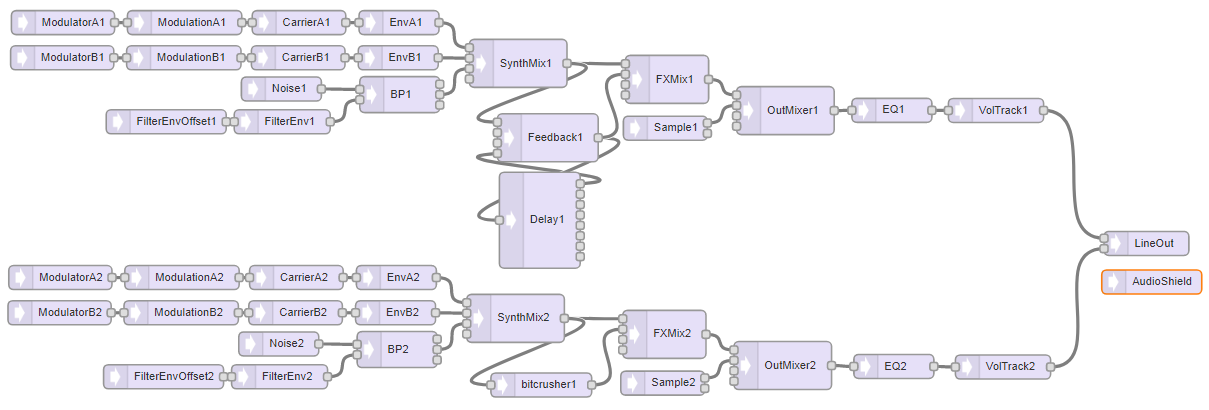
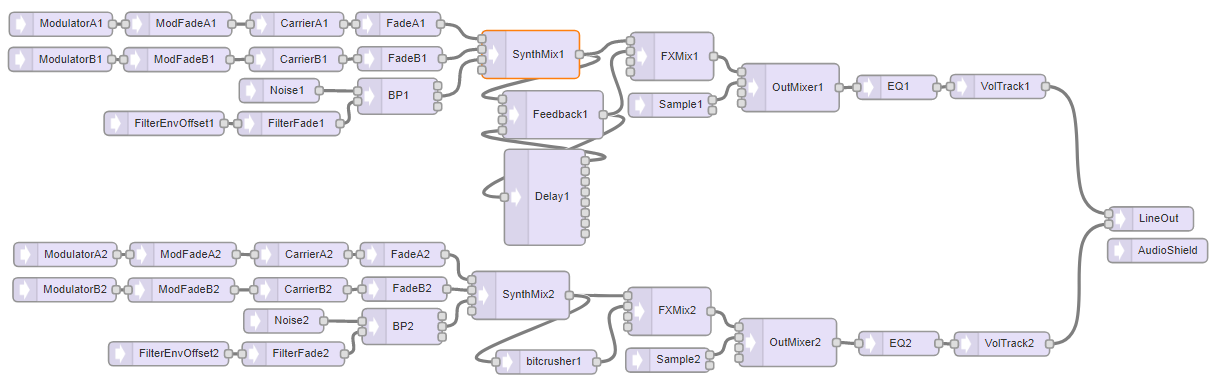
simplified synth diagram
Replaced envelopes by fades since I just want volumes and modulations to
ease in/out

Changed region(s): [[0.0, 0.0, 1.0, 0.9897]]

diff --git a/A_Plates/SynthDiagram.cpp b/A_Plates/SynthDiagram.cpp
@@ -5,32 +5,32 @@
 #include <SerialFlash.h>
 
 // GUItool: begin automatically generated code
+AudioSynthWaveformSine   ModulatorB1; //xy=85.111083984375,131.77777099609375
+AudioSynthWaveformSine   ModulatorA1; //xy=86.111083984375,87.77777099609375
 AudioSynthWaveformSine   ModulatorB2; //xy=90.71429443359375,419.71429443359375
 AudioSynthWaveformSine   ModulatorA2; //xy=91.71429443359375,375.71429443359375
-AudioSynthWaveformSine   ModulatorB1; //xy=94,101
-AudioSynthWaveformSine   ModulatorA1;          //xy=95,57
+AudioSynthWaveformDc     FilterEnvOffset1; //xy=215.111083984375,211.77777099609375
 AudioSynthWaveformDc     FilterEnvOffset2; //xy=220.71429443359375,499.71429443359375
-AudioSynthWaveformDc     FilterEnvOffset1;            //xy=224,181
-AudioAmplifier           ModulationB2; //xy=242.71429443359375,419.71429443359375
-AudioAmplifier           ModulationA2; //xy=243.71429443359375,375.71429443359375
-AudioAmplifier           ModulationB1; //xy=246,101
-AudioAmplifier           ModulationA1;           //xy=247,57
+AudioEffectFade          ModFadeB1; //xy=231.0634536743164,132.06344413757324
+AudioEffectFade          ModFadeA1; //xy=233.2856674194336,87.6190414428711
+AudioEffectFade          ModFadeB2; //xy=236.66666412353516,419.99996757507324
+AudioEffectFade          ModFadeA2;          //xy=238.88887786865234,375.5555648803711
+AudioSynthNoiseWhite     Noise1; //xy=359.111083984375,170.77777099609375
 AudioSynthNoiseWhite     Noise2; //xy=364.71429443359375,458.71429443359375
-AudioEffectEnvelope      FilterEnv2; //xy=365.71429443359375,499.71429443359375
-AudioSynthNoiseWhite     Noise1;         //xy=368,140
-AudioEffectEnvelope      FilterEnv1; //xy=369,181
+AudioEffectFade          FilterFade1; //xy=371.06345558166504,212.06343841552734
+AudioEffectFade          FilterFade2; //xy=376.6666660308838,499.99996185302734
+AudioSynthWaveformSineModulated CarrierB1; //xy=380.111083984375,131.77777099609375
+AudioSynthWaveformSineModulated CarrierA1; //xy=381.111083984375,87.77777099609375
 AudioSynthWaveformSineModulated CarrierB2; //xy=385.71429443359375,419.71429443359375
 AudioSynthWaveformSineModulated CarrierA2; //xy=386.71429443359375,375.71429443359375
-AudioSynthWaveformSineModulated CarrierB1; //xy=389,101
-AudioSynthWaveformSineModulated CarrierA1;       //xy=390,57
-AudioEffectEnvelope      EnvB2; //xy=510.71429443359375,419.71429443359375
-AudioEffectEnvelope      EnvA2; //xy=511.71429443359375,375.71429443359375
-AudioEffectEnvelope      EnvB1; //xy=514,101
+AudioFilterStateVariable BP1; //xy=507.111083984375,177.77777099609375
+AudioEffectFade          FadeA1; //xy=507.73011779785156,87.61899375915527
+AudioEffectFade          FadeB1; //xy=509.95234298706055,130.95236587524414
 AudioFilterStateVariable BP2; //xy=512.7142944335938,465.71429443359375
-AudioEffectEnvelope      EnvA1;      //xy=515,57
-AudioFilterStateVariable BP1;        //xy=516,147
+AudioEffectFade          FadeA2; //xy=513.3333282470703,375.5555171966553
+AudioEffectFade          FadeB2; //xy=515.5555534362793,418.88888931274414
 AudioMixer4              SynthMix2; //xy=660.7142944335938,426.71429443359375
-AudioMixer4              SynthMix1;         //xy=664,108
+AudioMixer4              SynthMix1; //xy=673.333324432373,125.55555725097656
 AudioEffectDelay         Delay1;         //xy=691,304
 AudioEffectBitcrusher    bitcrusher1;    //xy=692.8571319580078,510.0000686645508
 AudioMixer4              Feedback1;         //xy=701,201
@@ -42,37 +42,37 @@ AudioMixer4              OutMixer2; //xy=994.7142944335938,485.71429443359375
 AudioMixer4              OutMixer1; //xy=998,167
 AudioFilterBiquad        EQ1;        //xy=1131.1110763549805,166.66667556762695
 AudioFilterBiquad        EQ2; //xy=1133.5395812988281,486.80954027175903
-AudioAmplifier           VolTrack1;           //xy=1261.2500190734863,166.78572273254395
-AudioAmplifier           VolTrack2; //xy=1270.0000190734863,487.50000762939453
-AudioOutputI2S           LineOut;           //xy=1449.3016319274902,333.04759407043457
-AudioConnection          patchCord1(ModulatorB2, ModulationB2);
-AudioConnection          patchCord2(ModulatorA2, ModulationA2);
-AudioConnection          patchCord3(ModulatorB1, ModulationB1);
-AudioConnection          patchCord4(ModulatorA1, ModulationA1);
-AudioConnection          patchCord5(FilterEnvOffset2, FilterEnv2);
-AudioConnection          patchCord6(FilterEnvOffset1, FilterEnv1);
-AudioConnection          patchCord7(ModulationB2, CarrierB2);
-AudioConnection          patchCord8(ModulationA2, CarrierA2);
-AudioConnection          patchCord9(ModulationB1, CarrierB1);
-AudioConnection          patchCord10(ModulationA1, CarrierA1);
-AudioConnection          patchCord11(Noise2, 0, BP2, 0);
-AudioConnection          patchCord12(FilterEnv2, 0, BP2, 1);
-AudioConnection          patchCord13(Noise1, 0, BP1, 0);
-AudioConnection          patchCord14(FilterEnv1, 0, BP1, 1);
-AudioConnection          patchCord15(CarrierB2, EnvB2);
-AudioConnection          patchCord16(CarrierA2, EnvA2);
-AudioConnection          patchCord17(CarrierB1, EnvB1);
-AudioConnection          patchCord18(CarrierA1, EnvA1);
-AudioConnection          patchCord19(EnvB2, 0, SynthMix2, 1);
-AudioConnection          patchCord20(EnvA2, 0, SynthMix2, 0);
-AudioConnection          patchCord21(EnvB1, 0, SynthMix1, 1);
+AudioAmplifier           VolTrack1;           //xy=1257.5000190734863,165.53572368621826
+AudioAmplifier           VolTrack2; //xy=1262.5000190734863,487.50000762939453
+AudioOutputI2S           LineOut;           //xy=1448.8889083862305,331.11113357543945
+AudioConnection          patchCord1(ModulatorB1, ModFadeB1);
+AudioConnection          patchCord2(ModulatorA1, ModFadeA1);
+AudioConnection          patchCord3(ModulatorB2, ModFadeB2);
+AudioConnection          patchCord4(ModulatorA2, ModFadeA2);
+AudioConnection          patchCord5(FilterEnvOffset1, FilterFade1);
+AudioConnection          patchCord6(FilterEnvOffset2, FilterFade2);
+AudioConnection          patchCord7(ModFadeB1, CarrierB1);
+AudioConnection          patchCord8(ModFadeA1, CarrierA1);
+AudioConnection          patchCord9(ModFadeB2, CarrierB2);
+AudioConnection          patchCord10(ModFadeA2, CarrierA2);
+AudioConnection          patchCord11(Noise1, 0, BP1, 0);
+AudioConnection          patchCord12(Noise2, 0, BP2, 0);
+AudioConnection          patchCord13(FilterFade1, 0, BP1, 1);
+AudioConnection          patchCord14(FilterFade2, 0, BP2, 1);
+AudioConnection          patchCord15(CarrierB1, FadeB1);
+AudioConnection          patchCord16(CarrierA1, FadeA1);
+AudioConnection          patchCord17(CarrierB2, FadeB2);
+AudioConnection          patchCord18(CarrierA2, FadeA2);
+AudioConnection          patchCord19(BP1, 1, SynthMix1, 2);
+AudioConnection          patchCord20(FadeA1, 0, SynthMix1, 0);
+AudioConnection          patchCord21(FadeB1, 0, SynthMix1, 1);
 AudioConnection          patchCord22(BP2, 1, SynthMix2, 2);
-AudioConnection          patchCord23(EnvA1, 0, SynthMix1, 0);
-AudioConnection          patchCord24(BP1, 1, SynthMix1, 2);
+AudioConnection          patchCord23(FadeA2, 0, SynthMix2, 0);
+AudioConnection          patchCord24(FadeB2, 0, SynthMix2, 1);
 AudioConnection          patchCord25(SynthMix2, 0, FXMix2, 0);
 AudioConnection          patchCord26(SynthMix2, bitcrusher1);
-AudioConnection          patchCord27(SynthMix1, 0, FXMix1, 0);
-AudioConnection          patchCord28(SynthMix1, 0, Feedback1, 0);
+AudioConnection          patchCord27(SynthMix1, 0, Feedback1, 0);
+AudioConnection          patchCord28(SynthMix1, 0, FXMix1, 0);
 AudioConnection          patchCord29(Delay1, 0, Feedback1, 3);
 AudioConnection          patchCord30(bitcrusher1, 0, FXMix2, 1);
 AudioConnection          patchCord31(Feedback1, Delay1);
@@ -87,5 +87,5 @@ AudioConnection          patchCord39(EQ1, VolTrack1);
 AudioConnection          patchCord40(EQ2, VolTrack2);
 AudioConnection          patchCord41(VolTrack1, 0, LineOut, 0);
 AudioConnection          patchCord42(VolTrack2, 0, LineOut, 1);
-AudioControlSGTL5000     AudioShield;     //xy=1455.936424255371,381.21027183532715
+AudioControlSGTL5000     AudioShield;     //xy=1457.0475463867188,370.79360580444336
 // GUItool: end automatically generated code
